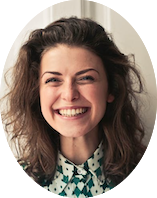
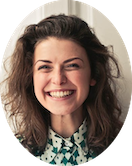
resized pics and added mobile media query for nav bar

diff --git a/less/navigation.less b/less/navigation.less
@@ -1,3 +1,8 @@
+  .img1 {
+    @media @phone2{
+    display: none;
+    }
+  }
   #stash {
     display: flex;
     justify-content: left;
@@ -9,8 +14,24 @@
     /* Chrome 10-25, Safari 5.1-6 */
     background: linear-gradient(to right, #11FFBD, #AAFFA9);
     /* W3C, IE 10+/ Edge, Firefox 16+, Chrome 26+, Opera 12+, Safari 7+ */
+@media @phone{
+  justify-content: center;
+  flex-direction: column;
+  .img1{
+    //justify-content: flex-start;
+    flex-direction: column;
+    align-items: center;
+  }
+  //justify-content: flex-end;
+  //align-content: center;
+  //box-sizing: border-box;
+  margin: 1% 35%;
+  border: 2px solid gray;
+  text-align: center;
+  border-radius: 5%;
+  width: 30%;
 
-
+}
 
 }
 
@@ -23,8 +44,21 @@
         a{
             //justify-content: space-evenly;
             margin: 1% 5%;
-        
+            @media @phone{
+              display: none;
+            }
+        i {
+          @media @phone {
+            margin: 1% 5%;
+          }
+
         }
+
+        }
+      
+        
+      
+        
         
     }
     

diff --git a/css/index.css b/css/index.css
@@ -168,6 +168,11 @@ p {
   max-width: 100%;
   margin: 0 auto;
 }
+@media (min-width: 501px) {
+  .img1 {
+    display: none;
+  }
+}
 #stash {
   display: flex;
   justify-content: left;
@@ -180,6 +185,21 @@ p {
   background: linear-gradient(to right, #11FFBD, #AAFFA9);
   /* W3C, IE 10+/ Edge, Firefox 16+, Chrome 26+, Opera 12+, Safari 7+ */
 }
+@media (max-width: 500px) {
+  #stash {
+    justify-content: center;
+    flex-direction: column;
+    margin: 1% 35%;
+    border: 2px solid gray;
+    text-align: center;
+    border-radius: 5%;
+    width: 30%;
+  }
+  #stash .img1 {
+    flex-direction: column;
+    align-items: center;
+  }
+}
 #navList {
   display: flex;
   flex-direction: flex-end;
@@ -189,6 +209,16 @@ p {
 }
 #navList a {
   margin: 1% 5%;
+}
+@media (max-width: 500px) {
+  #navList a {
+    display: none;
+  }
+}
+@media (max-width: 500px) {
+  #navList a i {
+    margin: 1% 5%;
+  }
 }
 #wrapper {
   max-width: 100%;

diff --git a/Home-Page.html b/Home-Page.html
@@ -22,9 +22,9 @@
         <!-- Header -->
         <header>
             <section>
-                <nav id="stash">
+                <img class="img1" src="assets/icons8.png" alt="menu">
+                <nav id="stash">    
                      <h1>STASH</h1>
-    
                 <nav id="navList">
                     <a href="#">Account</a>
                     <a href="#">Portfolio</a>

diff --git a/AboutUs.html b/AboutUs.html
@@ -18,6 +18,7 @@
 <body class="container">
     <header>
         <section>
+            <img class="img1" src="assets/icons8.png" alt="menu">
             <nav id="stash">
                 <h1>STASH</h1>
                 <nav id="navList">

diff --git a/less/variables.less b/less/variables.less
@@ -6,3 +6,5 @@
 // Desktop Variables
 
 // Mobile Variable
+@phone: ~"(max-width: 500px)";
+@phone2: ~"(min-width: 501px)";
